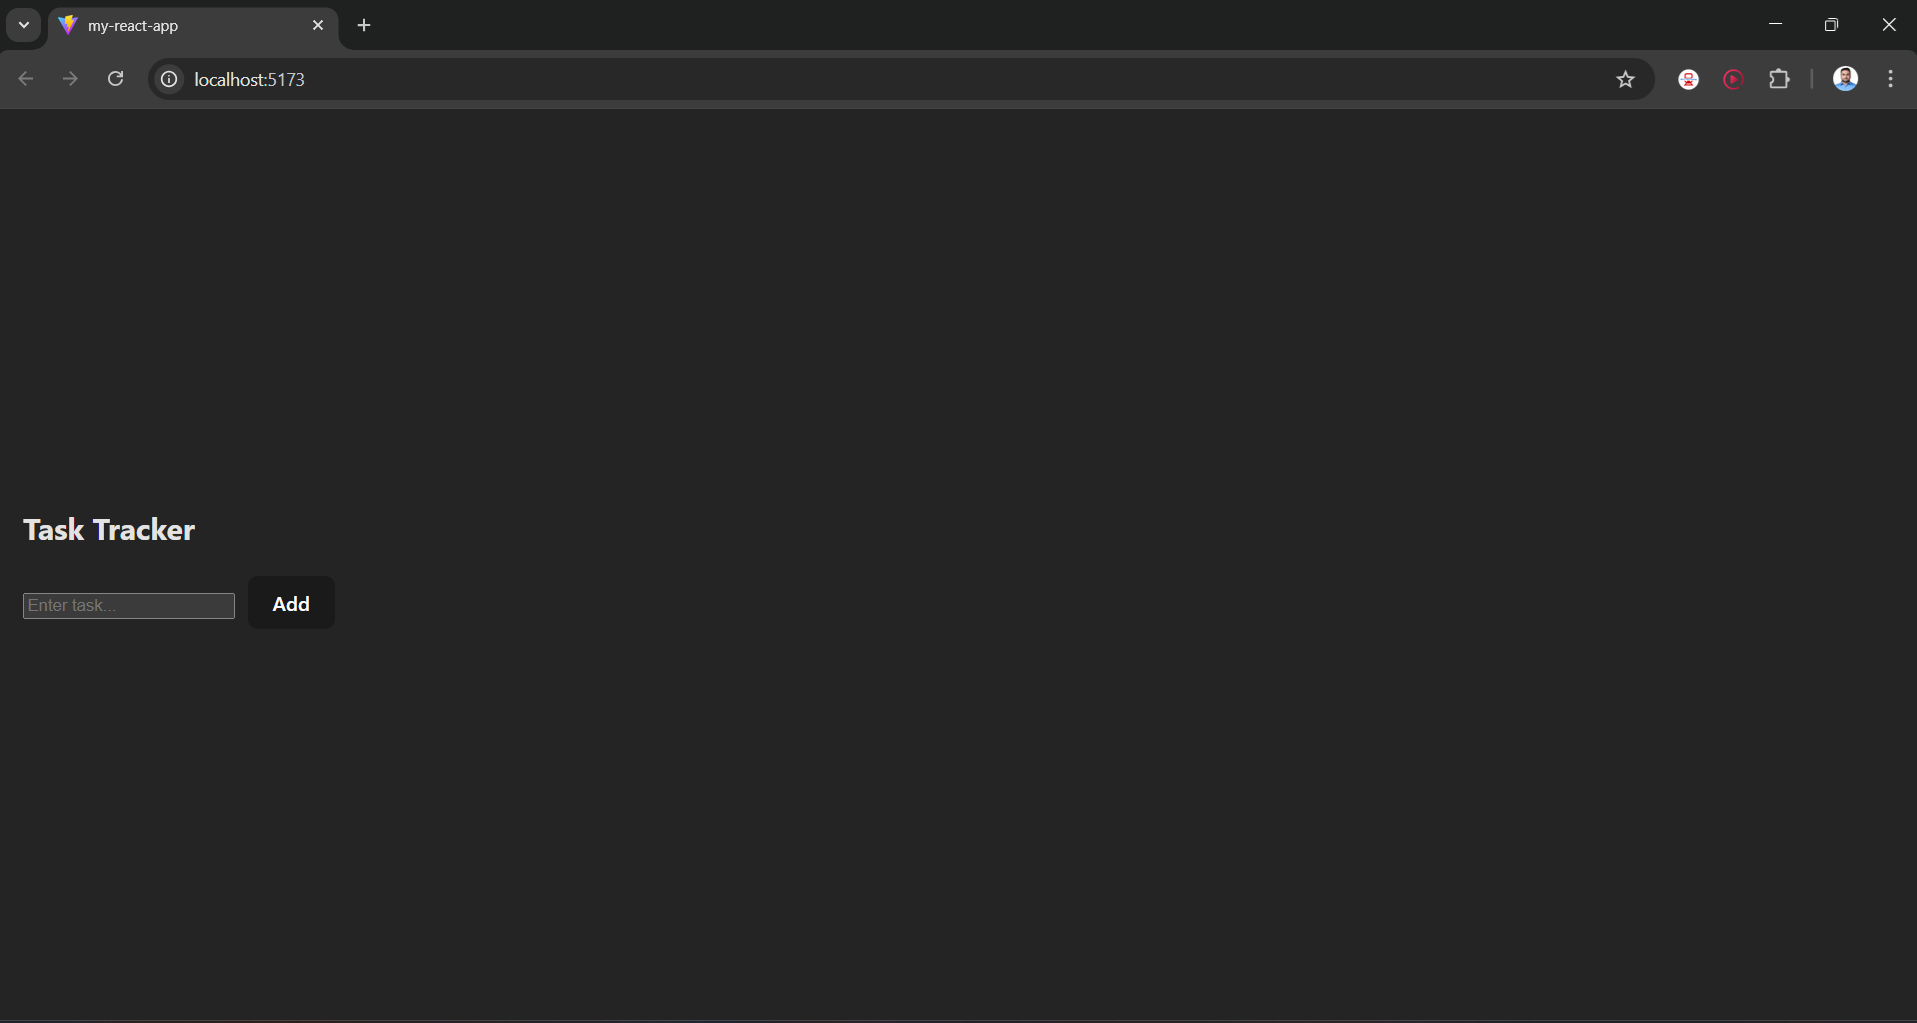
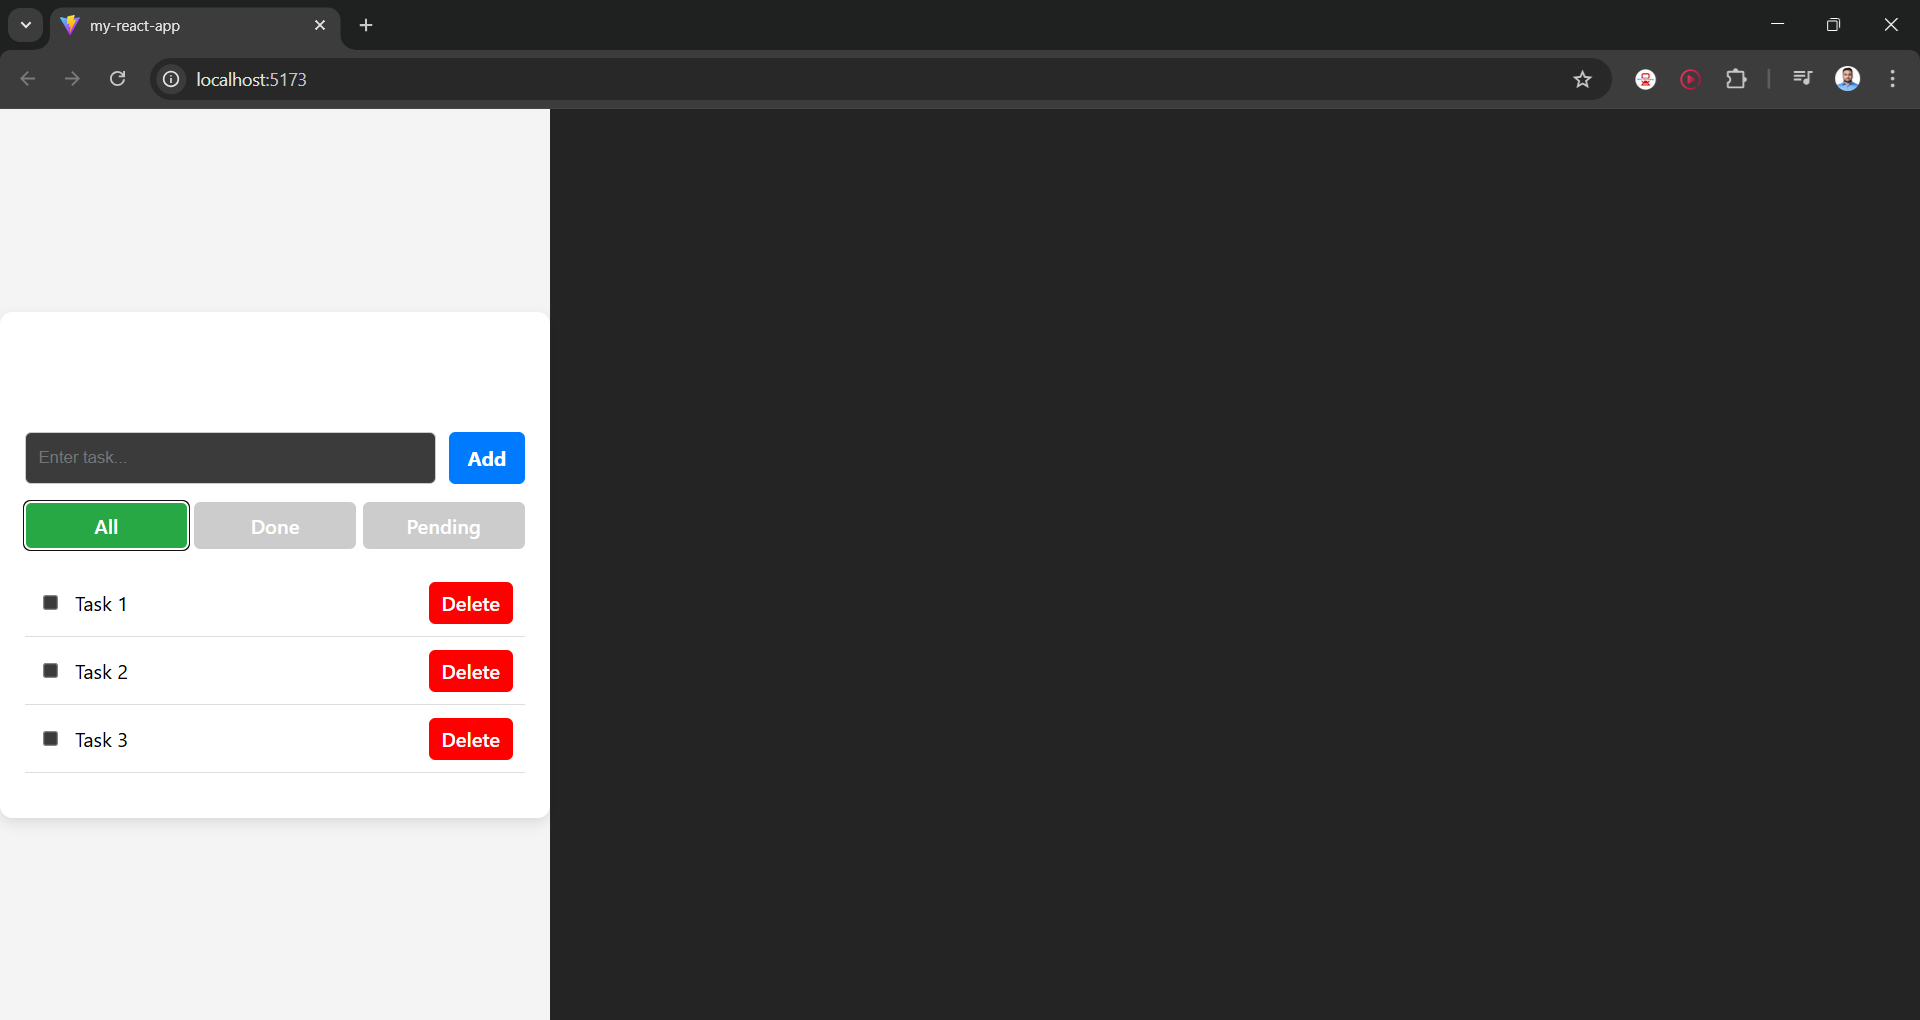
Updated README.md and app.png image to match with the latest changes

Changed region(s): [[0.0, 0.0608, 0.3078, 1.0], [0.831, 0.0608, 0.9849, 0.0912], [0.0308, 0.0, 0.0923, 0.0304]]

diff --git a/README.md b/README.md
@@ -9,6 +9,12 @@ A simple Task Tracker application built using **React** and **Vite**.
 - Delete tasks
 - Press **Enter** to add tasks
 - Tasks persist using **LocalStorage**
+- Filter tasks by:
+  - **All**
+  - **Done**
+  - **Pending**
+- Add tasks using **Enter key**
+- Tasks persist using **LocalStorage** (data remains after refresh)
 
 ## Tech Stack
 
